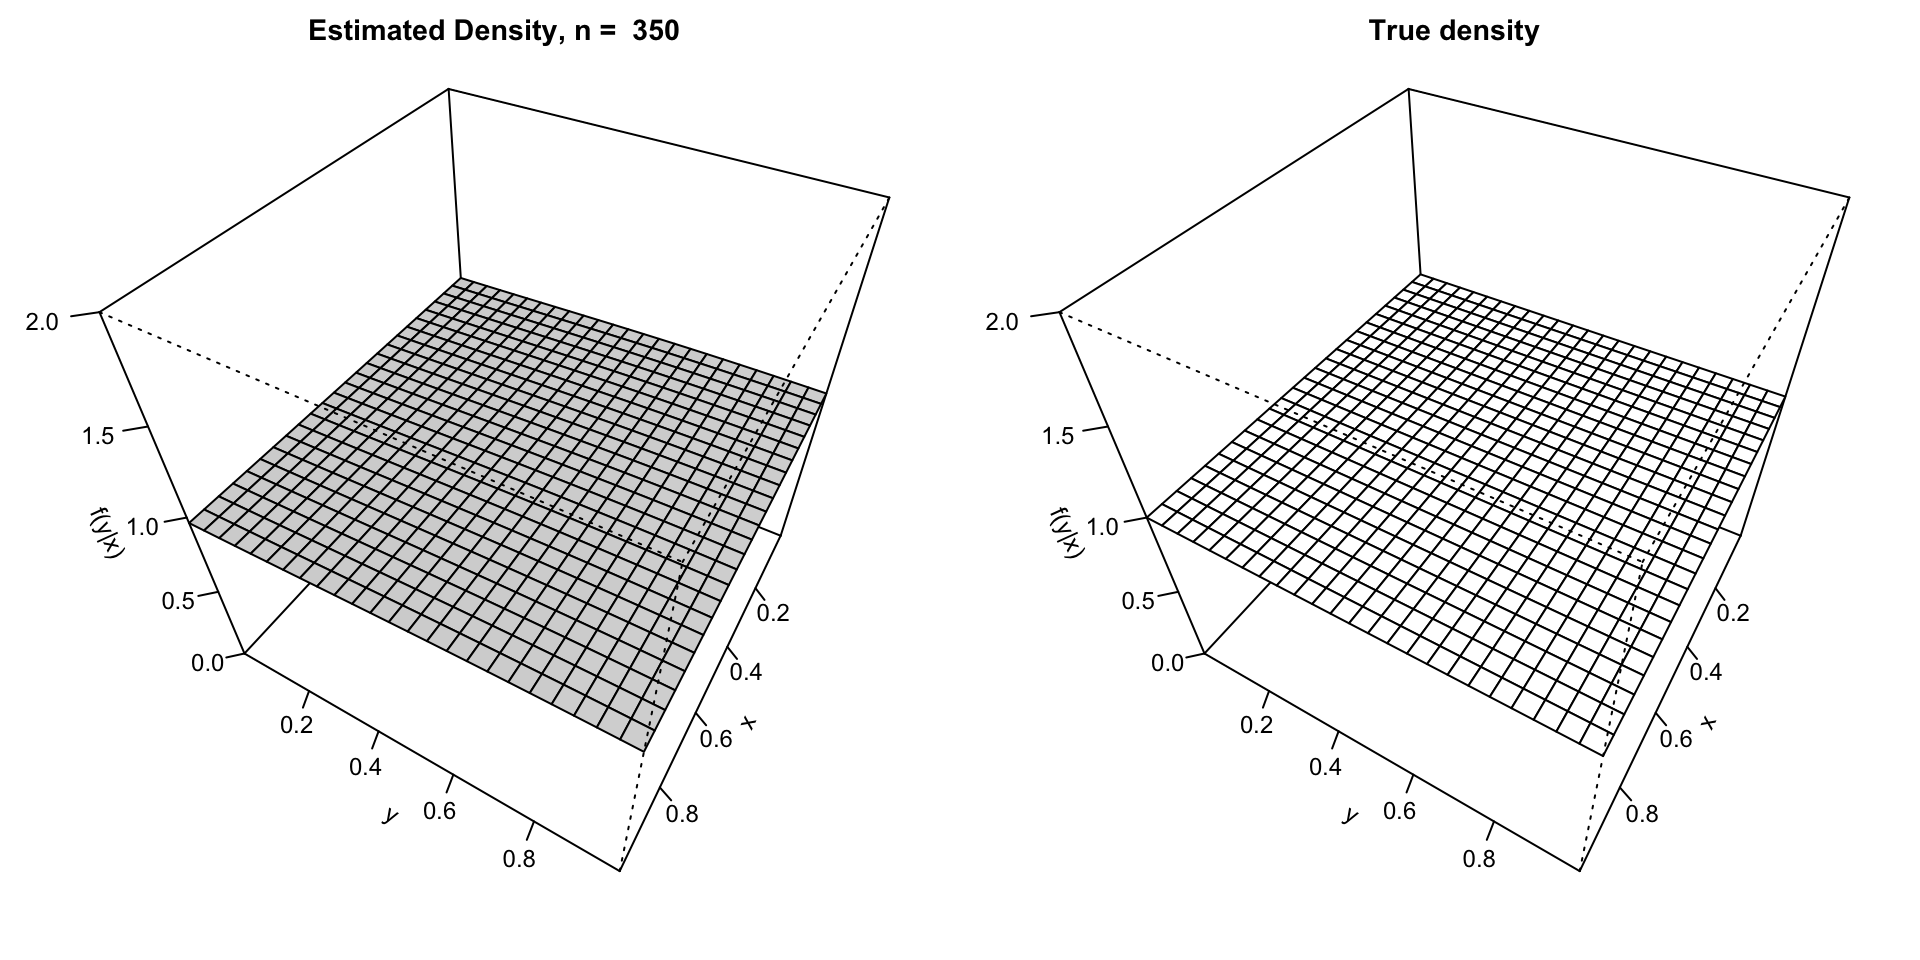
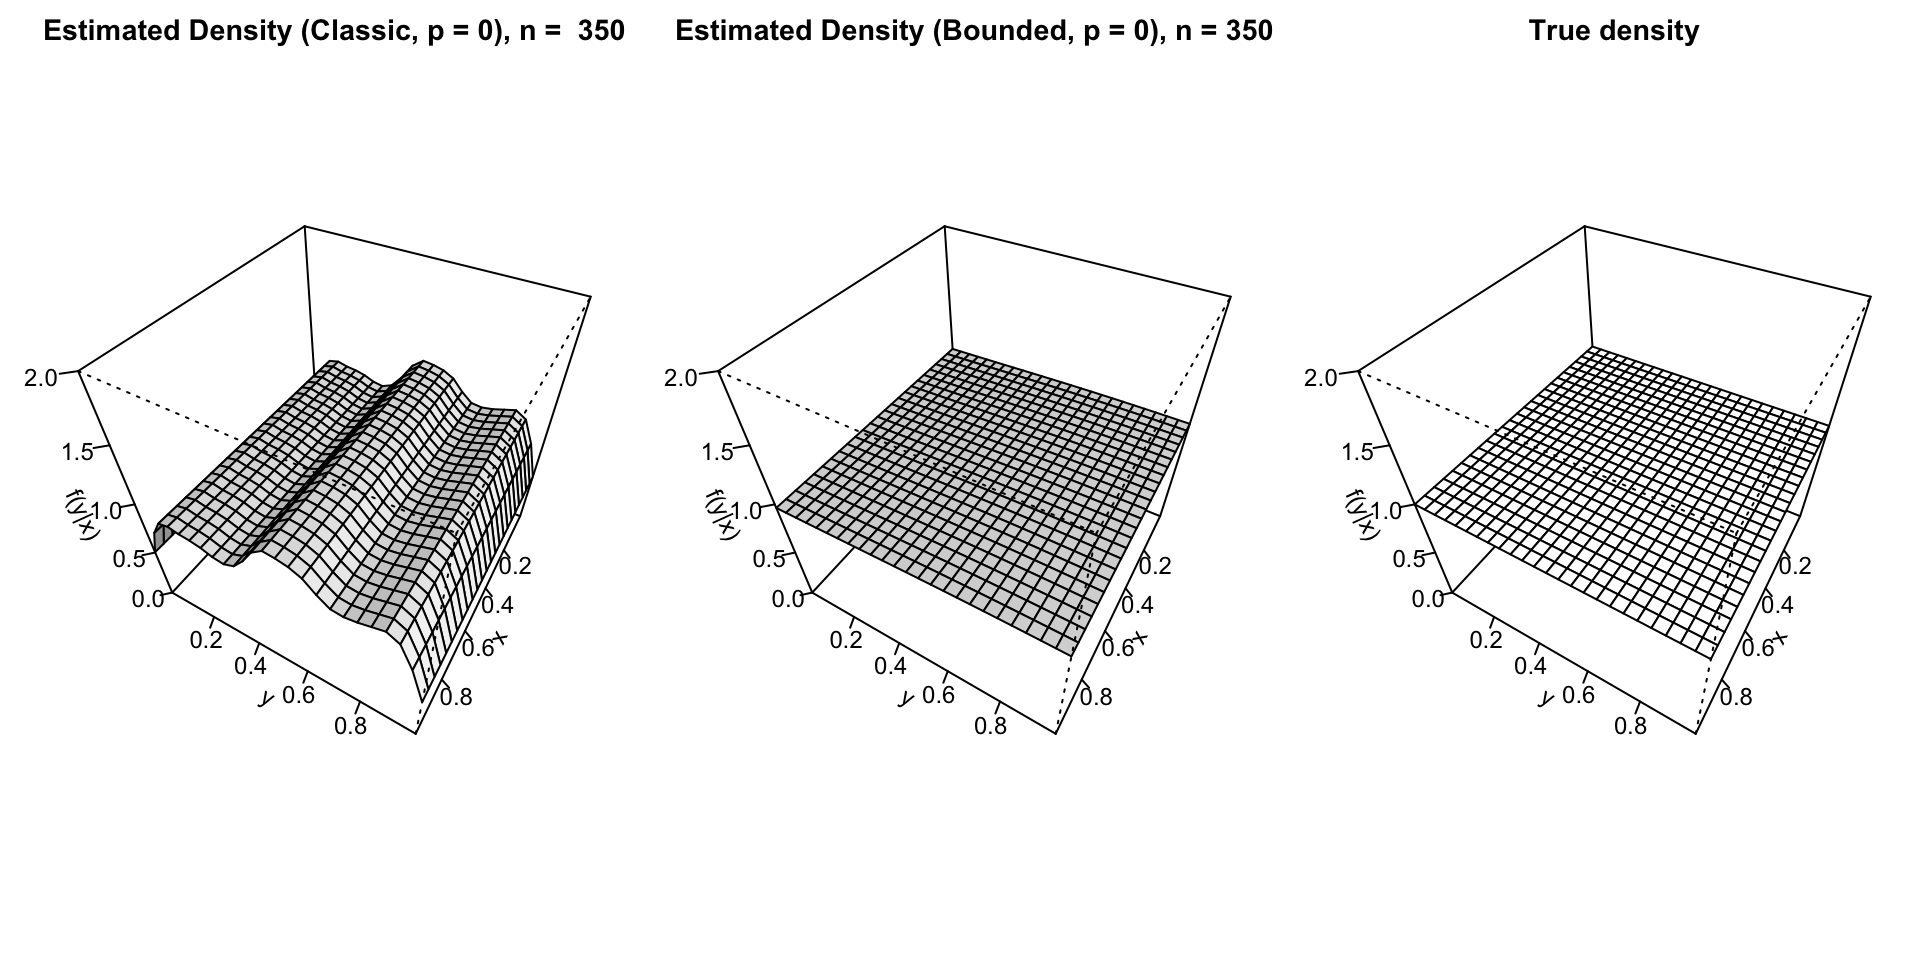
Added uniform, cleaning up

diff --git a/index.html b/index.html
@@ -792,13 +792,21 @@ Figure&nbsp;2: Simulated data from <span class="math inline">\(N(0,1)\)</span> a
 <span id="cb4-4"><a href=""></a>x <span class="ot">&lt;-</span> <span class="fu">runif</span>(n)</span>
 <span id="cb4-5"><a href=""></a>y <span class="ot">&lt;-</span> <span class="fu">rbeta</span>(n,<span class="dv">1</span>,<span class="dv">1</span>)</span>
 <span id="cb4-6"><a href=""></a>f <span class="ot">&lt;-</span> <span class="fu">bkcde</span>(<span class="at">x=</span>x,<span class="at">y=</span>y,<span class="at">proper=</span><span class="cn">TRUE</span>)</span>
-<span id="cb4-7"><a href=""></a>dgp <span class="ot">&lt;-</span> <span class="fu">dbeta</span>(f<span class="sc">$</span>y.eval,<span class="dv">1</span>,<span class="dv">1</span>)</span>
-<span id="cb4-8"><a href=""></a><span class="fu">par</span>(<span class="at">mfrow=</span><span class="fu">c</span>(<span class="dv">1</span>,<span class="dv">2</span>),<span class="at">cex=</span>.<span class="dv">75</span>,<span class="at">mar=</span><span class="fu">c</span>(<span class="dv">2</span>,<span class="dv">2</span>,<span class="dv">2</span>,<span class="dv">1</span>))</span>
-<span id="cb4-9"><a href=""></a>zlim <span class="ot">&lt;-</span> <span class="fu">range</span>(f<span class="sc">$</span>f,dgp,<span class="dv">0</span>,<span class="dv">2</span>)</span>
-<span id="cb4-10"><a href=""></a><span class="fu">plot</span>(f,<span class="at">main=</span><span class="fu">paste</span>(<span class="st">"Estimated Density, n = "</span>,n),<span class="at">zlim=</span>zlim)</span>
-<span id="cb4-11"><a href=""></a><span class="fu">persp</span>(<span class="fu">unique</span>(f<span class="sc">$</span>x.eval),<span class="fu">unique</span>(f<span class="sc">$</span>y.eval),</span>
-<span id="cb4-12"><a href=""></a>      <span class="fu">matrix</span>(dgp,<span class="at">nrow=</span><span class="fu">length</span>(<span class="fu">unique</span>(f<span class="sc">$</span>x.eval))),</span>
-<span id="cb4-13"><a href=""></a>      <span class="at">theta=</span><span class="dv">120</span>,<span class="at">phi=</span><span class="dv">45</span>,<span class="at">ticktype=</span><span class="st">"detailed"</span>,<span class="at">xlab=</span><span class="st">"x"</span>,<span class="at">ylab=</span><span class="st">"y"</span>,<span class="at">zlab=</span><span class="st">"f(y|x)"</span>,<span class="at">zlim=</span>zlim,<span class="at">main=</span><span class="st">"True density"</span>)</span></code><button title="Copy to Clipboard" class="code-copy-button"><i class="bi"></i></button></pre></div>
+<span id="cb4-7"><a href=""></a>f.classic <span class="ot">&lt;-</span> <span class="fu">bkcde</span>(<span class="at">x=</span>x,<span class="at">y=</span>y,<span class="at">proper=</span><span class="cn">TRUE</span>,</span>
+<span id="cb4-8"><a href=""></a>                   <span class="at">y.ub=</span><span class="cn">Inf</span>,</span>
+<span id="cb4-9"><a href=""></a>                   <span class="at">y.lb=</span><span class="sc">-</span><span class="cn">Inf</span>,</span>
+<span id="cb4-10"><a href=""></a>                   <span class="at">x.ub=</span><span class="cn">Inf</span>,</span>
+<span id="cb4-11"><a href=""></a>                   <span class="at">x.lb=</span><span class="sc">-</span><span class="cn">Inf</span>,</span>
+<span id="cb4-12"><a href=""></a>                   <span class="at">degree.min=</span><span class="dv">0</span>,</span>
+<span id="cb4-13"><a href=""></a>                   <span class="at">degree.max=</span><span class="dv">0</span>)</span>
+<span id="cb4-14"><a href=""></a>dgp <span class="ot">&lt;-</span> <span class="fu">dbeta</span>(f<span class="sc">$</span>y.eval,<span class="dv">1</span>,<span class="dv">1</span>)</span>
+<span id="cb4-15"><a href=""></a><span class="fu">par</span>(<span class="at">mfrow=</span><span class="fu">c</span>(<span class="dv">1</span>,<span class="dv">3</span>),<span class="at">cex=</span>.<span class="dv">75</span>,<span class="at">mar=</span><span class="fu">c</span>(<span class="dv">2</span>,<span class="dv">2</span>,<span class="dv">2</span>,<span class="dv">1</span>))</span>
+<span id="cb4-16"><a href=""></a>zlim <span class="ot">&lt;-</span> <span class="fu">range</span>(f<span class="sc">$</span>f,f.classic<span class="sc">$</span>f,dgp,<span class="dv">0</span>,<span class="dv">2</span>)</span>
+<span id="cb4-17"><a href=""></a><span class="fu">plot</span>(f.classic,<span class="at">main=</span><span class="fu">paste</span>(<span class="st">"Estimated Density (Classic, p = 0), n = "</span>,n),<span class="at">zlim=</span>zlim)</span>
+<span id="cb4-18"><a href=""></a><span class="fu">plot</span>(f,<span class="at">main=</span><span class="fu">paste</span>(<span class="st">"Estimated Density (Bounded, p = "</span>,f<span class="sc">$</span>degree,<span class="st">"), n = "</span>,n,<span class="at">sep=</span><span class="st">""</span>),<span class="at">zlim=</span>zlim)</span>
+<span id="cb4-19"><a href=""></a><span class="fu">persp</span>(<span class="fu">unique</span>(f<span class="sc">$</span>x.eval),<span class="fu">unique</span>(f<span class="sc">$</span>y.eval),</span>
+<span id="cb4-20"><a href=""></a>      <span class="fu">matrix</span>(dgp,<span class="at">nrow=</span><span class="fu">length</span>(<span class="fu">unique</span>(f<span class="sc">$</span>x.eval))),</span>
+<span id="cb4-21"><a href=""></a>      <span class="at">theta=</span><span class="dv">120</span>,<span class="at">phi=</span><span class="dv">45</span>,<span class="at">ticktype=</span><span class="st">"detailed"</span>,<span class="at">xlab=</span><span class="st">"x"</span>,<span class="at">ylab=</span><span class="st">"y"</span>,<span class="at">zlab=</span><span class="st">"f(y|x)"</span>,<span class="at">zlim=</span>zlim,<span class="at">main=</span><span class="st">"True density"</span>)</span></code><button title="Copy to Clipboard" class="code-copy-button"><i class="bi"></i></button></pre></div>
 </div>
 
 </div>
@@ -812,7 +820,7 @@ Figure&nbsp;2: Simulated data from <span class="math inline">\(N(0,1)\)</span> a
 <img data-src="index_files/figure-revealjs/fig-conditional-kde-uniform-1.png" style="width:80.0%">
 </div>
 <figcaption class="quarto-float-caption-bottom quarto-float-caption quarto-float-fig" id="fig-conditional-kde-uniform-caption-0ceaefa1-69ba-4598-a22c-09a6ac19f8ca">
-Figure&nbsp;3: Conditional KDE for <span class="math inline">\(U[0,1]\)</span> with empirical bounds
+Figure&nbsp;3: Conditional KDE for <span class="math inline">\(U[0,1]\)</span> with classical bounds (<span class="math inline">\(Y\in[-\infty,\infty]\)</span>, <span class="math inline">\(p=0\)</span>), empirical bounds with adaptive polynomial choice (<span class="math inline">\(Y\in[\min(Y),\max(Y)]\)</span>)
 </figcaption></figure>
 </div>
 </div>
@@ -1010,30 +1018,30 @@ Table&nbsp;1: Relative RMSE Irrelevant
 <tbody>
 <tr class="odd">
 <td style="text-align: right;">100</td>
-<td style="text-align: right; font-weight: bold; color: green !important;">0.81</td>
-<td style="text-align: right;">0.97</td>
-<td style="text-align: right;">1.07</td>
-<td style="text-align: right;">1.19</td>
-<td style="text-align: right;">1.24</td>
-<td style="text-align: right;">1.28</td>
+<td style="text-align: right; font-weight: bold; color: green !important;">0.79</td>
+<td style="text-align: right;">0.95</td>
+<td style="text-align: right;">1.06</td>
+<td style="text-align: right;">1.16</td>
+<td style="text-align: right;">1.21</td>
+<td style="text-align: right;">1.25</td>
 <td style="text-align: right; font-weight: bold; color: green !important;">1.00</td>
 </tr>
 <tr class="even">
 <td style="text-align: right;">200</td>
-<td style="text-align: right; font-weight: bold; color: green !important;">0.88</td>
-<td style="text-align: right;">1.04</td>
-<td style="text-align: right;">1.16</td>
-<td style="text-align: right;">1.29</td>
-<td style="text-align: right;">1.36</td>
-<td style="text-align: right;">1.44</td>
+<td style="text-align: right; font-weight: bold; color: green !important;">0.91</td>
+<td style="text-align: right;">1.06</td>
+<td style="text-align: right;">1.19</td>
+<td style="text-align: right;">1.32</td>
+<td style="text-align: right;">1.39</td>
+<td style="text-align: right;">1.48</td>
 <td style="text-align: right; font-weight: bold; color: green !important;">1.00</td>
 </tr>
 <tr class="odd">
 <td style="text-align: right;">400</td>
 <td style="text-align: right; font-weight: bold; color: green !important;">0.93</td>
-<td style="text-align: right;">1.13</td>
+<td style="text-align: right;">1.17</td>
 <td style="text-align: right;">1.26</td>
-<td style="text-align: right;">1.42</td>
+<td style="text-align: right;">1.41</td>
 <td style="text-align: right;">1.57</td>
 <td style="text-align: right;">1.67</td>
 <td style="text-align: right; font-weight: bold; color: green !important;">1.00</td>
@@ -1338,12 +1346,12 @@ Table&nbsp;5: Relative RMSE Irrelevant
 </tr>
 <tr class="even">
 <td style="text-align: right; font-weight: bold; color: lightgreen !important;">800</td>
-<td style="text-align: right; font-weight: bold; color: lightgreen !important; font-weight: bold; color: green !important;">1.00</td>
-<td style="text-align: right; font-weight: bold; color: lightgreen !important;">1.33</td>
-<td style="text-align: right; font-weight: bold; color: lightgreen !important;">1.59</td>
-<td style="text-align: right; font-weight: bold; color: lightgreen !important;">1.81</td>
-<td style="text-align: right; font-weight: bold; color: lightgreen !important;">2.04</td>
-<td style="text-align: right; font-weight: bold; color: lightgreen !important;">2.24</td>
+<td style="text-align: right; font-weight: bold; color: lightgreen !important; font-weight: bold; color: green !important;">0.98</td>
+<td style="text-align: right; font-weight: bold; color: lightgreen !important;">1.29</td>
+<td style="text-align: right; font-weight: bold; color: lightgreen !important;">1.55</td>
+<td style="text-align: right; font-weight: bold; color: lightgreen !important;">1.76</td>
+<td style="text-align: right; font-weight: bold; color: lightgreen !important;">1.95</td>
+<td style="text-align: right; font-weight: bold; color: lightgreen !important;">2.12</td>
 <td style="text-align: right; font-weight: bold; color: lightgreen !important; font-weight: bold; color: green !important;">1.00</td>
 </tr>
 </tbody>
@@ -1544,12 +1552,12 @@ Table&nbsp;8: Relative RMSE Quadratic
 </tr>
 <tr class="odd">
 <td style="text-align: right;">400</td>
-<td style="text-align: right;">1.03</td>
-<td style="text-align: right;">1.01</td>
+<td style="text-align: right;">1.02</td>
+<td style="text-align: right;">1.00</td>
 <td style="text-align: right; font-weight: bold; color: green !important;">0.99</td>
 <td style="text-align: right;">0.98</td>
-<td style="text-align: right;">1.00</td>
-<td style="text-align: right;">1.02</td>
+<td style="text-align: right;">0.99</td>
+<td style="text-align: right;">1.01</td>
 <td style="text-align: right; font-weight: bold; color: green !important;">1.00</td>
 </tr>
 <tr class="even">
@@ -1601,20 +1609,20 @@ Table&nbsp;9: Median Relative RMSE
 <tr class="odd">
 <td style="text-align: right;">100</td>
 <td style="text-align: right;">1.00</td>
-<td style="text-align: right;">1.23</td>
-<td style="text-align: right;">1.41</td>
+<td style="text-align: right;">1.20</td>
+<td style="text-align: right;">1.39</td>
 </tr>
 <tr class="even">
 <td style="text-align: right;">200</td>
 <td style="text-align: right;">1.00</td>
-<td style="text-align: right;">1.59</td>
-<td style="text-align: right;">1.83</td>
+<td style="text-align: right;">1.57</td>
+<td style="text-align: right;">1.86</td>
 </tr>
 <tr class="odd">
 <td style="text-align: right;">400</td>
 <td style="text-align: right;">1.00</td>
-<td style="text-align: right;">2.09</td>
-<td style="text-align: right;">2.28</td>
+<td style="text-align: right;">2.08</td>
+<td style="text-align: right;">2.27</td>
 </tr>
 <tr class="even">
 <td style="text-align: right;">800</td>
@@ -1833,8 +1841,8 @@ Table&nbsp;13: Median Relative RMSE
 <tr class="even">
 <td style="text-align: right;">800</td>
 <td style="text-align: right;">1.00</td>
-<td style="text-align: right;">0.97</td>
-<td style="text-align: right;">1.28</td>
+<td style="text-align: right;">0.93</td>
+<td style="text-align: right;">1.26</td>
 </tr>
 </tbody>
 </table>
@@ -1981,7 +1989,7 @@ Table&nbsp;16: Median Relative RMSE
 <tr class="odd">
 <td style="text-align: right;">400</td>
 <td style="text-align: right;">1.00</td>
-<td style="text-align: right;">1.01</td>
+<td style="text-align: right;">1.00</td>
 <td style="text-align: right;">0.95</td>
 </tr>
 <tr class="even">
